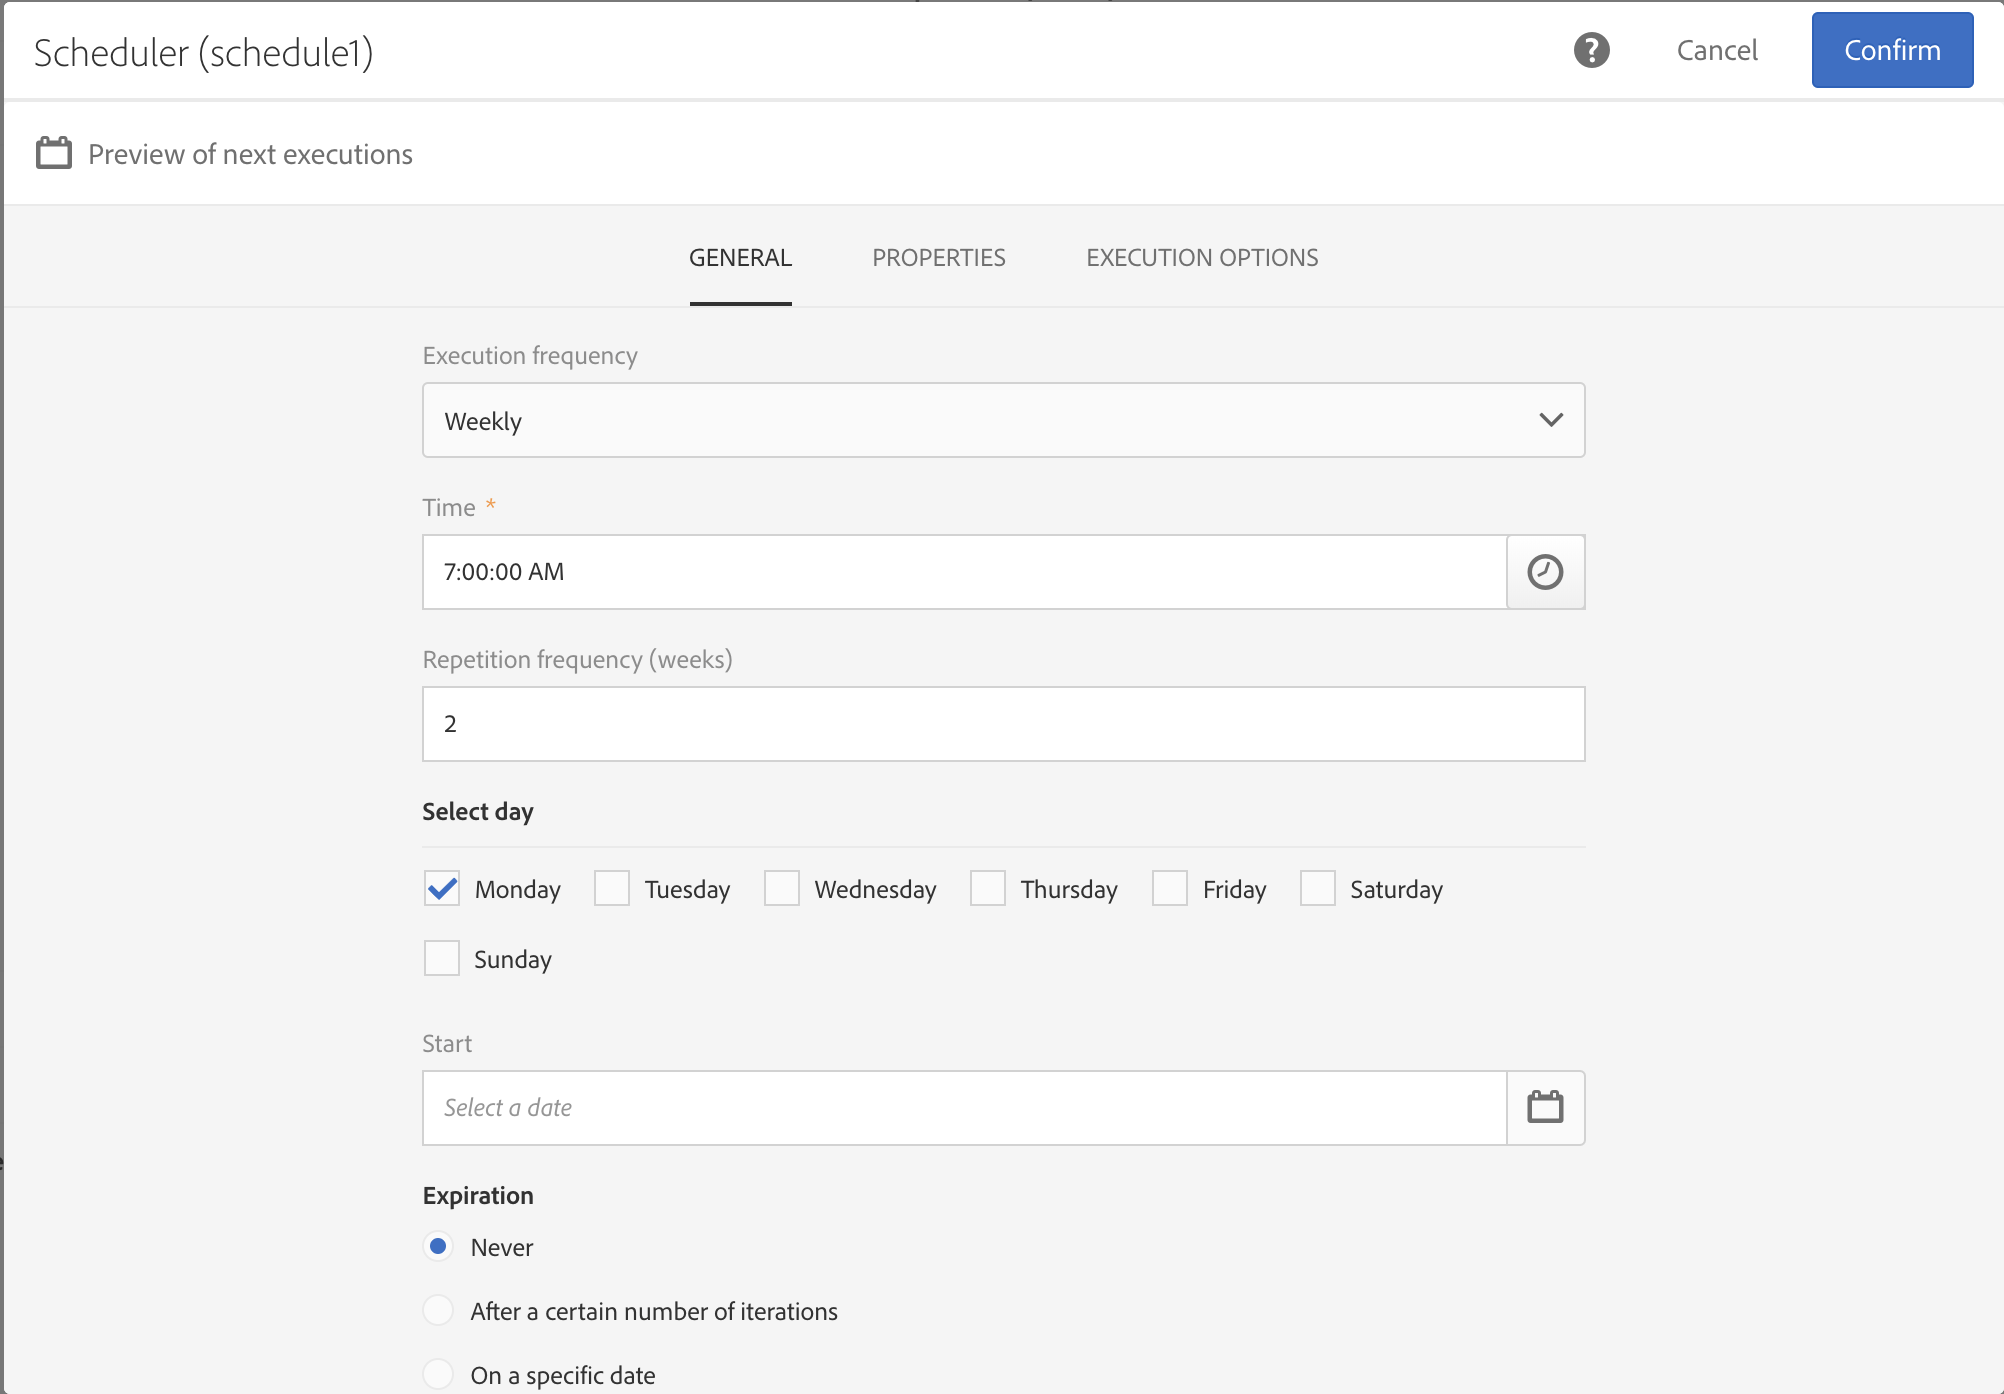
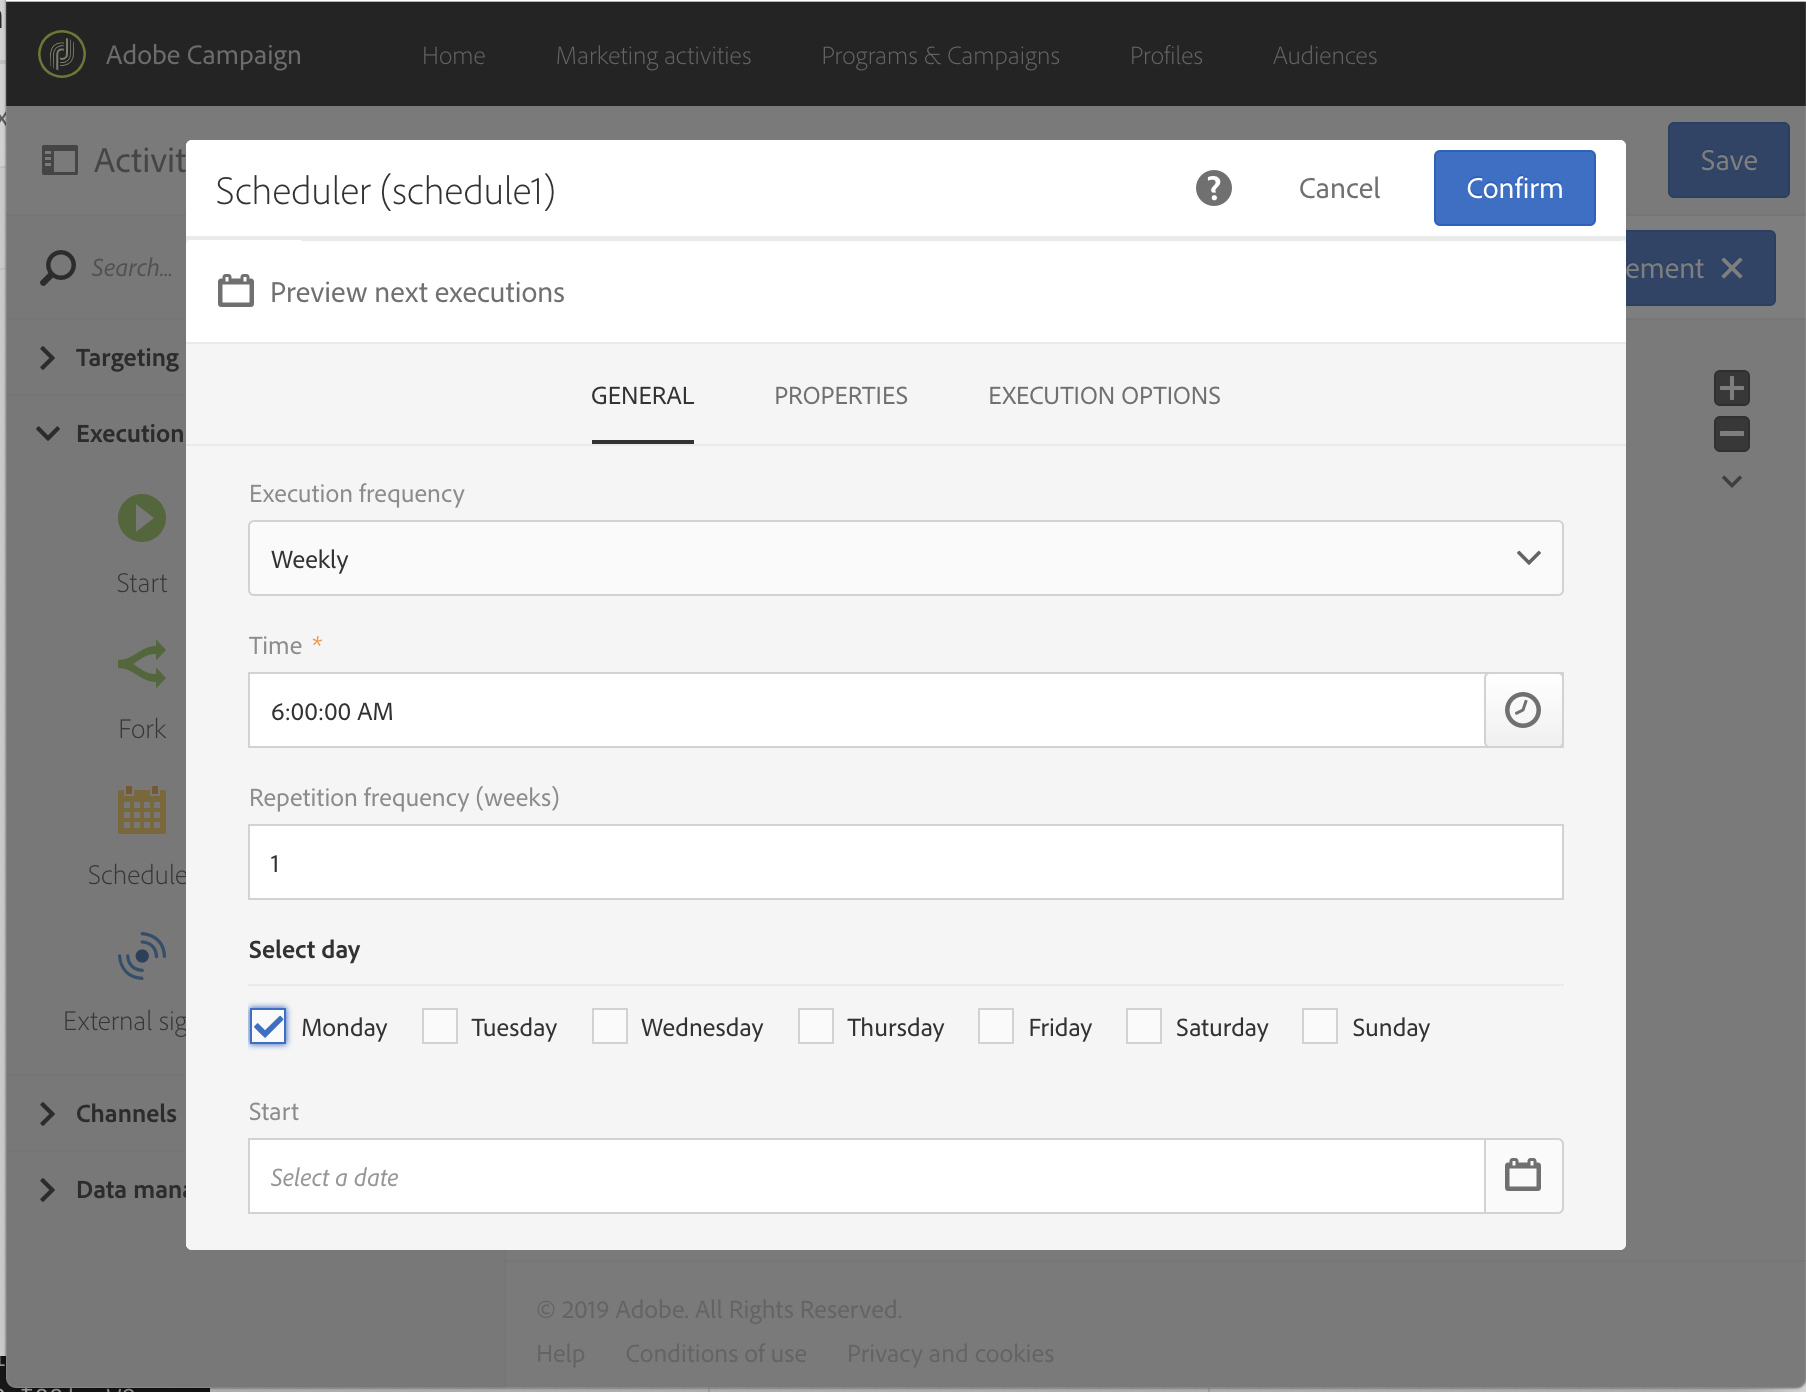
Updates following change of name for preview in UI

diff --git a/help/automating/using/incremental-query.md b/help/automating/using/incremental-query.md
@@ -76,7 +76,7 @@ The workflow is up made up of the following elements:
 
 ![](assets/incremental_query_example1.png)
 
-* A **[!UICONTROL Scheduler]** activity, to execute the workflow every Monday at 7 am.
+* A **[!UICONTROL Scheduler]** activity, to execute the workflow every Monday at 6 am.
 
   ![](assets/incremental_query_example2.png)
 
